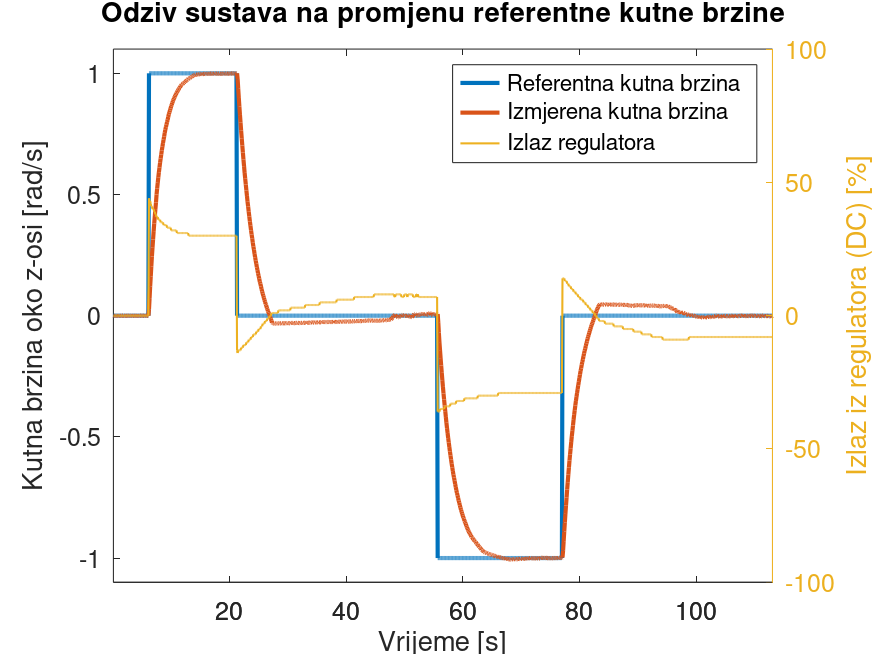
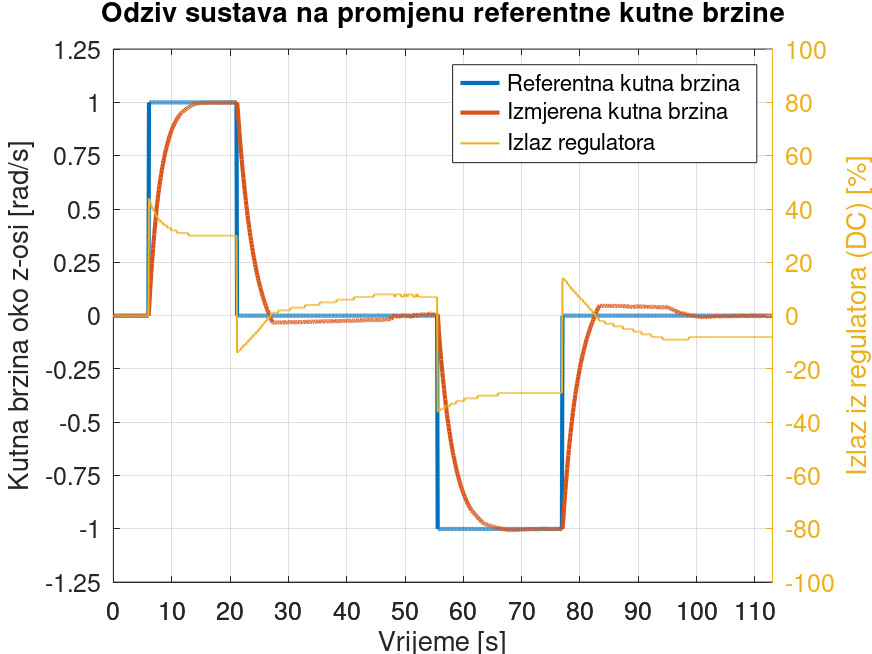
add grid, fix ranges

diff --git a/other/plot_meas_angle_reg_dist.m b/other/plot_meas_angle_reg_dist.m
@@ -2,9 +2,9 @@ clear all;
 close all;
 
 % load and prepare ang vel meas
-meas = csvread('measurements/angle_regulation_input.csv');
+meas = csvread('measurements/angle_regulation_disturb.csv');
 
-meas = meas(1240:end,:,:);
+meas = meas(623:1510,:,:);
 
 angle_ref = meas(:,1);
 angle = meas(:,2);
@@ -21,17 +21,17 @@ a = [angle_ref, angle];
 font_size_title = 15;
 font_size = 12;
 time_step_size = 10;
-y1_lim = [-180 180];
-y2_lim = [-1800 1800];
+y1_lim = [-60 60];
+y2_lim = [-180 180];
 y1_step_size = 20;
-y2_step_size = 250;
+y2_step_size = 50;
 
 hf = figure();
 [hax, h1, h2] = plotyy(t, a, t, cntrl);
 xlabel("Vrijeme [s]");
 ylabel(hax(1), "Eulerov kut oko z-osi [stupnjevi]");
 ylabel(hax(2), "Izlaz iz regulatora (DC) [%]");
-title("Odziv sustava na promjenu referentnog Eulerovog kuta", "fontsize", font_size_title);
+title("Odziv sustava na na vanjsku smetnju Eulerovog kuta", "fontsize", font_size_title);
 set(hax(1), "fontsize", font_size)
 set(hax(2), "fontsize", font_size)
 set(h1, "linewidth", 2)
@@ -48,4 +48,4 @@ ybounds2 = ylim(hax(2));
 set(hax(2), 'ytick', ybounds2(1):y2_step_size:ybounds2(2))
 
 % printing to png
-print(hf, "angle_reg_user.png", '-dpng');
+print(hf, "angle_reg_dist.png", '-dpng');

diff --git a/other/plot_meas_ang_vel_user.m b/other/plot_meas_ang_vel_user.m
@@ -15,7 +15,7 @@ wz = wz ./ 1000.0; % to rad/s
 cntrl = meas(:,3);
 
 % create time vector
-t = 1:length(wz_ref);
+t = 0:(length(wz_ref)-1);
 t = t ./ 10.0; % convert to seconds
 t = t';
 
@@ -24,6 +24,11 @@ w = [wz_ref, wz];
 % plot
 font_size_title = 15;
 font_size = 12;
+time_step_size = 10;
+y1_lim = [-1.25 1.25];
+y2_lim = [-100 100];
+y1_step_size = 0.25;
+y2_step_size = 20;
 
 hf = figure();
 [hax, h1, h2] = plotyy(t, w, t, cntrl);
@@ -35,9 +40,16 @@ set(hax(1), "fontsize", font_size)
 set(hax(2), "fontsize", font_size)
 set(h1, "linewidth", 2)
 set(h2, "linewidth", 1)
-ylim(hax(1), [-1.1 1.1])
-ylim(hax(2), [-100 100])
+ylim(hax(1), y1_lim)
+ylim(hax(2), y2_lim)
 legend('Referentna kutna brzina', 'Izmjerena kutna brzina', 'Izlaz regulatora')
+grid
+xbounds = xlim();
+set(hax, 'xtick', xbounds(1):time_step_size:xbounds(2))
+ybounds1 = ylim(hax(1));
+set(hax(1), 'ytick', ybounds1(1):y1_step_size:ybounds1(2))
+ybounds2 = ylim(hax(2));
+set(hax(2), 'ytick', ybounds2(1):y2_step_size:ybounds2(2))
 
 % printing to pdf
 print(hf, "ang_vel_reg_user.png", '-dpng');

diff --git a/other/plot_meas_ang_vel_dist.m b/other/plot_meas_ang_vel_dist.m
@@ -15,7 +15,7 @@ wz = wz ./ 1000.0; % to rad/s
 cntrl = meas(:,3);
 
 % create time vector
-t = 1:length(wz_ref);
+t = 0:(length(wz_ref)-1);
 t = t ./ 10.0; % convert to seconds
 t = t';
 
@@ -24,6 +24,11 @@ w = [wz_ref, wz];
 % plot
 font_size_title = 15;
 font_size = 12;
+time_step_size = 10;
+y1_lim = [-1 1];
+y2_lim = [-100 100];
+y1_step_size = 0.2;
+y2_step_size = 20;
 
 hf = figure();
 [hax, h1, h2] = plotyy(t, w, t, cntrl);
@@ -35,9 +40,16 @@ set(hax(1), "fontsize", font_size)
 set(hax(2), "fontsize", font_size)
 set(h1, "linewidth", 2)
 set(h2, "linewidth", 1)
-ylim(hax(1), [-1.1 1.1])
-ylim(hax(2), [-100 100])
+ylim(hax(1), y1_lim)
+ylim(hax(2), y2_lim)
 legend('Referentna kutna brzina', 'Izmjerena kutna brzina', 'Izlaz regulatora')
+grid
+xbounds = xlim();
+set(hax, 'xtick', xbounds(1):time_step_size:xbounds(2))
+ybounds1 = ylim(hax(1));
+set(hax(1), 'ytick', ybounds1(1):y1_step_size:ybounds1(2))
+ybounds2 = ylim(hax(2));
+set(hax(2), 'ytick', ybounds2(1):y2_step_size:ybounds2(2))
 
 % printing to pdf
 print(hf, "ang_vel_reg_dist.png", '-dpng');

diff --git a/other/plot_step_response.m b/other/plot_step_response.m
@@ -8,7 +8,7 @@ wz = -wz;
 wz = wz ./ 1000.0; % to rad/s
 
 % create time vector
-t = 1:length(wz);
+t = 0:(length(wz)-1);
 t = t ./ 10.0; % convert to seconds
 t = t';
 
@@ -35,6 +35,11 @@ dc = [dc; zeros(length(wz) - length(dc), 1)];
 % plot
 font_size_title = 15;
 font_size = 12;
+time_step_size = 10;
+y1_lim = [-10 100];
+y2_lim = [-0.5 3.1];
+y1_step_size = 10;
+y2_step_size = 0.5;
 
 hf = figure();
 [hax, h1, h2] = plotyy(t, dc, t, wz);
@@ -46,8 +51,16 @@ set(hax(1), "fontsize", font_size)
 set(hax(2), "fontsize", font_size)
 set(h1, "linewidth", 2)
 set(h2, "linewidth", 1)
-ylim(hax(1), [0 100])
-ylim(hax(2), [-0.5 3.1])
+ylim(hax(1), y1_lim)
+ylim(hax(2), y2_lim)
+grid
+xbounds = xlim();
+set(hax, 'xtick', xbounds(1):time_step_size:xbounds(2))
+ybounds1 = ylim(hax(1));
+set(hax(1), 'ytick', ybounds1(1):y1_step_size:ybounds1(2))
+ybounds2 = ylim(hax(2));
+set(hax(2), 'ytick', ybounds2(1):y2_step_size:ybounds2(2))
+
 
 % printing to pdf
 print(hf, "step_response.png", '-dpng');
